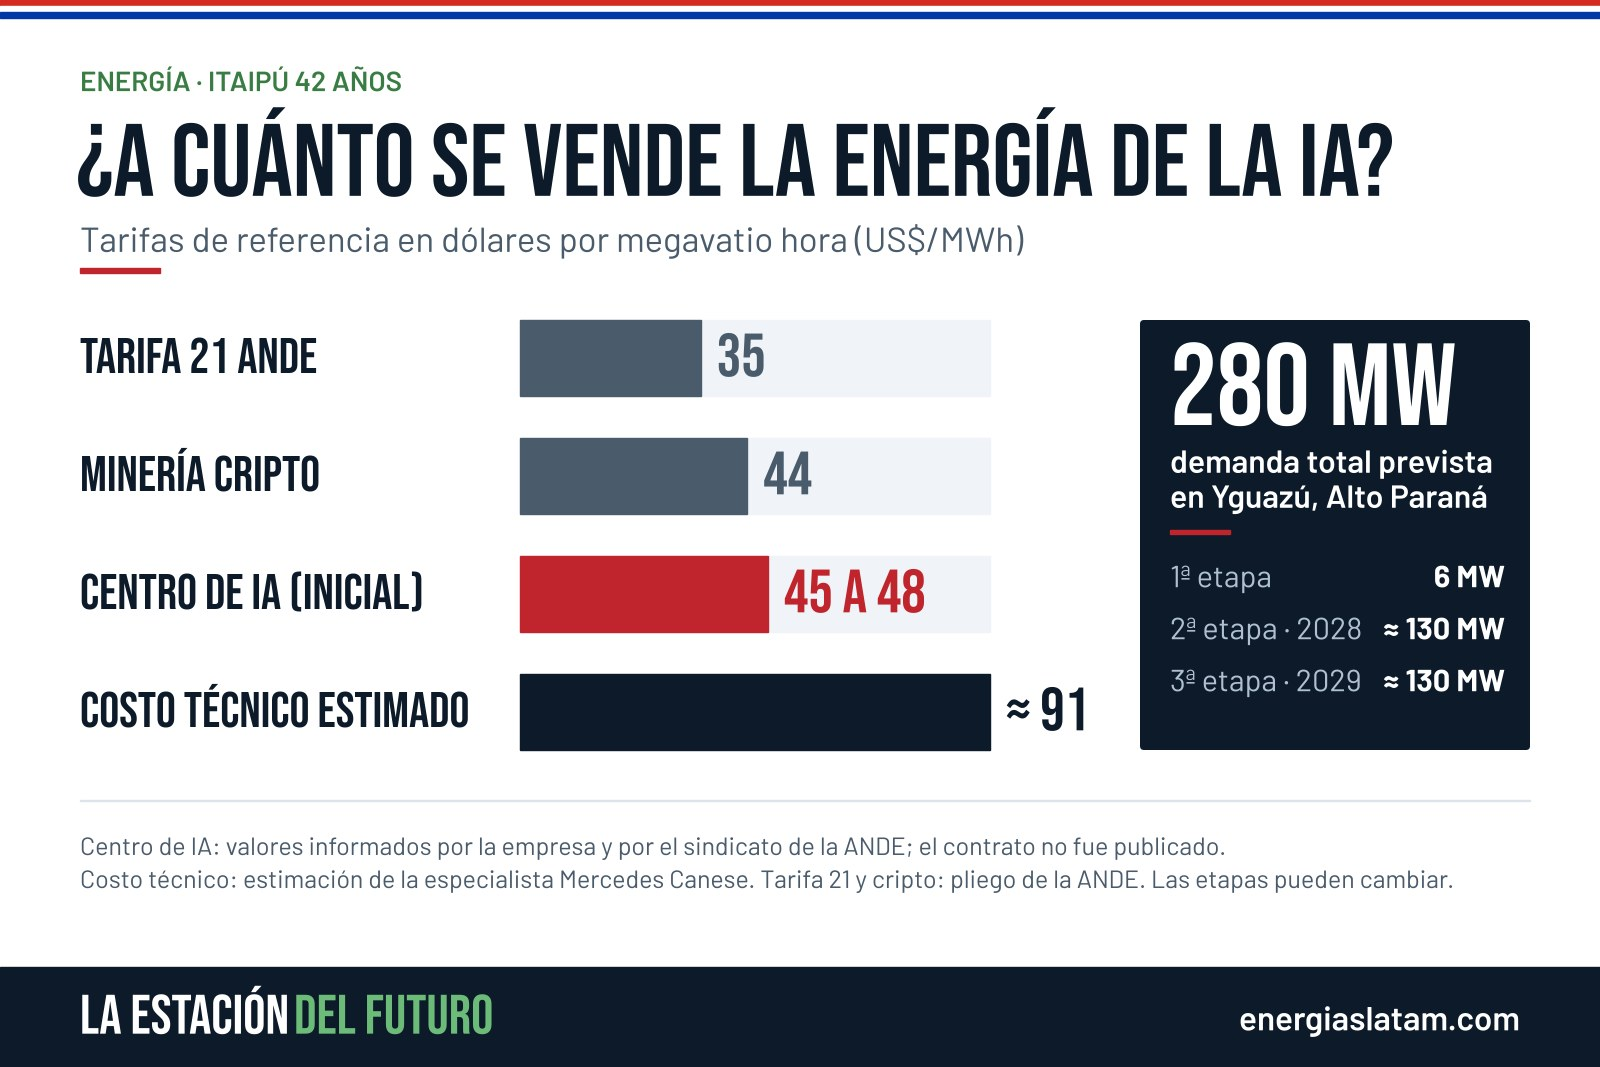
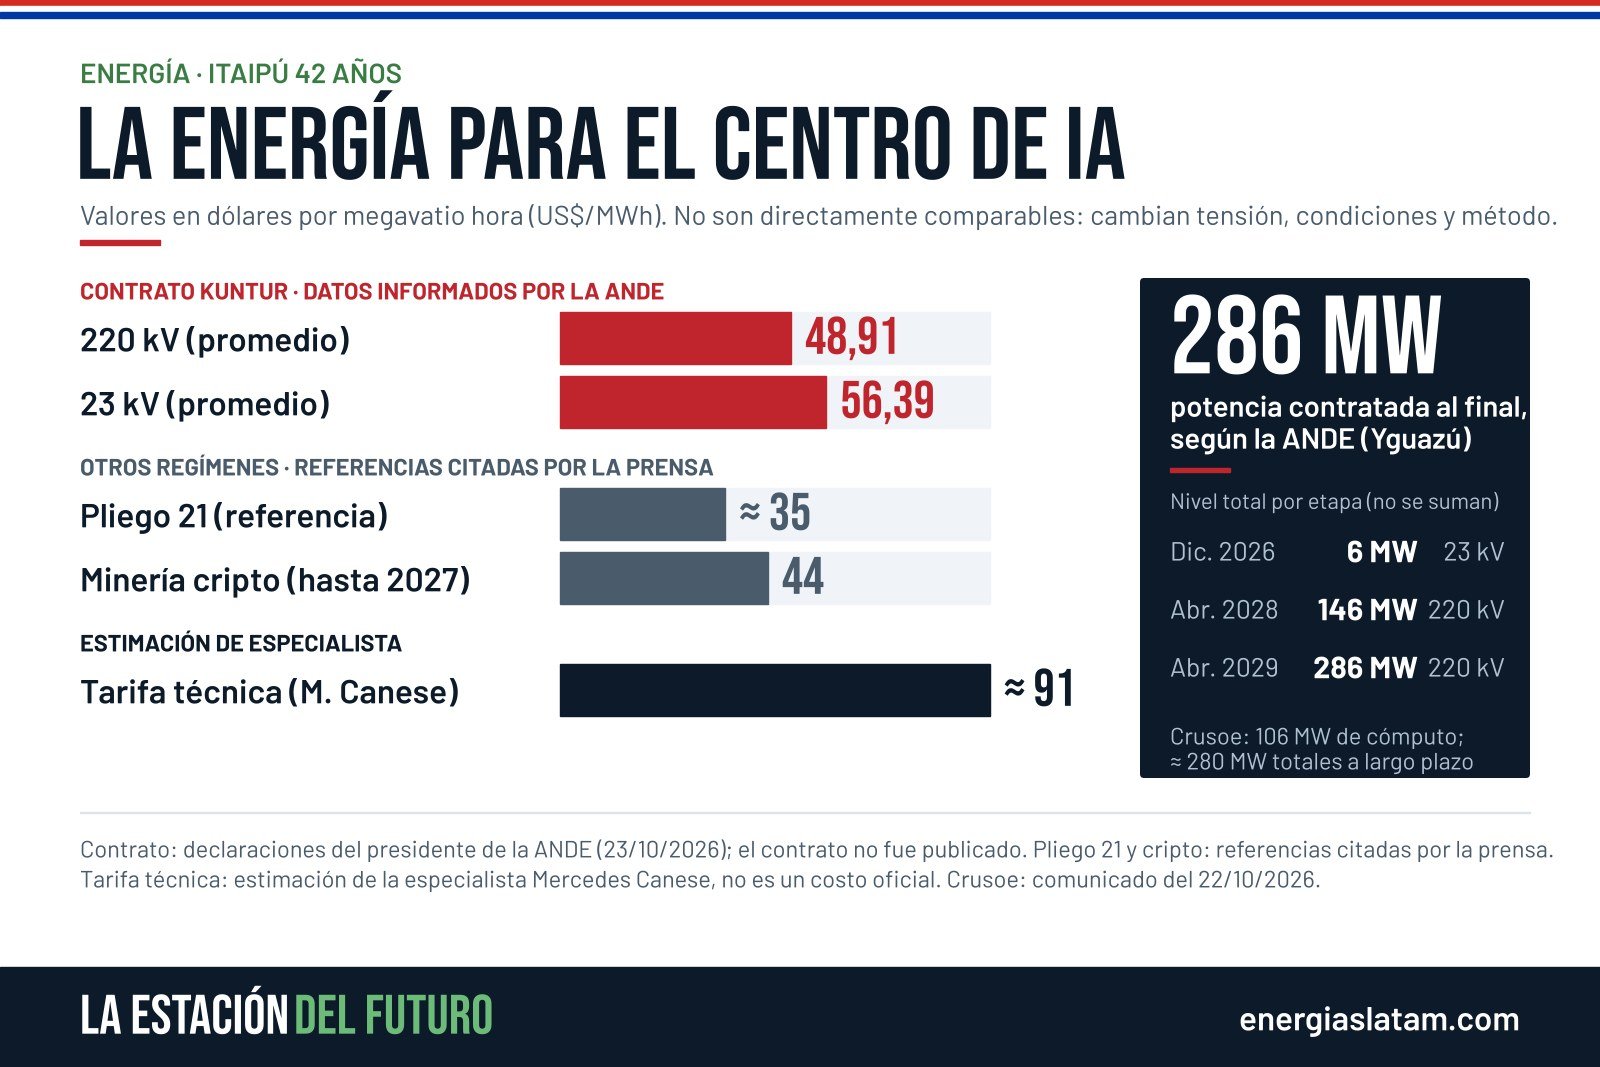
Nota 26/10 Itaipú: datos de la ANDE, etapas y gráfico corregidos
Claude-Session: https://claude.ai/code/session_01HHGRFrapr8AXyd2C4Baz1m

Changed region(s): [[0.0312, 0.0619, 0.9688, 0.7113], [0.0312, 0.6804, 0.9688, 0.8351], [0.6875, 0.2474, 0.9688, 0.6495]]

diff --git a/notas/2026-10-26-itaipu-42-centro-ia.html b/notas/2026-10-26-itaipu-42-centro-ia.html
@@ -1,12 +1,14 @@
-<figure><img src="img/2026-10-26-itaipu-42-centro-ia-1.jpg" alt="Tarifas eléctricas de referencia en US$/MWh y etapas del centro de inteligencia artificial en Yguazú"><figcaption>La tarifa inicial del centro de IA, frente a otras referencias del sistema eléctrico.</figcaption></figure>
-<p>Itaipú cumplió 42 años de su inauguración oficial con un debate que pasó de la diplomacia al precio. El disparador es un centro de datos de inteligencia artificial proyectado en Yguazú, Alto Paraná, que se abastecería con energía de la binacional a través de la ANDE. Llega a pocos meses de que venza el plazo para revisar el Anexo C del Tratado, la parte que fija las bases financieras de la represa.</p>
-<h2>Un cliente de 280 megavatios</h2>
-<p>El proyecto lo impulsa la empresa paraguaya Araico, con la estadounidense Crusoe como socia tecnológica. Según lo informado por la empresa, la demanda total llegaría a 280 MW en tres etapas: una primera de 6 MW, otra de unos 130 MW en 2028 y una tercera de tamaño similar en 2029. La inversión anunciada es de US$ 12.000 millones en tres años, con unos US$ 300 millones para la primera fase. Sobre el arranque hay dos versiones: la empresa habla de diciembre de 2026 y el texto oficial de Estados Unidos ubica la primera fase a mediados de 2027.</p>
-<p>La energía no se compra directo a Itaipú. Por el Tratado, solo la ANDE y su par brasileña pueden contratarla, así que el circuito es Itaipú, ANDE y después el cliente, conectado en 220 kV desde la subestación de Yguazú.</p>
-<h2>La discusión es la tarifa</h2>
-<p>La ANDE todavía no publicó el contrato. Los valores que circulan salen de la empresa y del sindicato de la eléctrica: un precio inicial de entre US$ 45 y 48 por megavatio hora, con un ajuste anual del 2,5 % y un plazo de 15 años [A VERIFICAR]. Como referencia, la tarifa 21 de la ANDE ronda los US$ 35 y la de la minería de criptomonedas, US$ 44, vigente hasta diciembre de 2027.</p>
-<p>Del otro lado, la especialista Mercedes Canese estima que el costo técnico de esa energía está cerca de US$ 91 por megavatio hora y sostiene que venderla a la mitad resigna recursos para infraestructura e industrialización. Quienes defienden el acuerdo destacan que trae inversión y empleo y que la energía excedente, si no se usa en el país, se cede a Brasil a valores bajos. El sindicato de la ANDE pidió transparencia y anunció movilizaciones.</p>
-<div class="datos"><div><b>14.000 MW</b><span>potencia instalada de Itaipú, en 20 unidades de 700 MW</span></div><div><b>21.619 GWh</b><span>energía que Itaipú entregó a la ANDE entre enero y septiembre de 2026</span></div><div><b>280 MW</b><span>demanda prevista del centro de IA de Yguazú en su etapa final</span></div></div>
+<figure><img src="img/2026-10-26-itaipu-42-centro-ia-1.jpg" alt="Tarifas informadas por la ANDE para el centro de IA, otras referencias y etapas de potencia en Yguazú"><figcaption>Lo informado por la ANDE, otras referencias de tarifa y la estimación de una especialista, separados porque no son directamente comparables.</figcaption></figure>
+<p>Itaipú cumplió 42 años de su inauguración oficial, el 25 de octubre de 1984, con un debate que se instaló en los últimos días: a qué precio vender la energía de la represa a un centro de datos de inteligencia artificial. En los primeros nueve meses de 2026, la binacional entregó 21.619 GWh a la ANDE, y una parte de esa energía tendrá un nuevo tipo de cliente.</p>
+<h2>Lo que informó la ANDE</h2>
+<p>Según declaraciones de su presidente, Miguel Báez, publicadas el 23 de octubre, la ANDE firmó el día anterior un contrato por 15 años con Kuntur, una empresa vinculada a la desarrolladora paraguaya Araico, para abastecer un centro de datos en Yguazú, Alto Paraná. El contrato fue firmado, pero no fue publicado: los datos que siguen provienen de esas declaraciones y no de una lectura del documento.</p>
+<p>Báez informó un precio promedio de US$ 48,91 por megavatio hora en 220 kV, dentro de un nuevo grupo de consumo para industrias electrointensivas de tecnología avanzada, y de US$ 56,39 en 23 kV. El reajuste anual sigue la inflación de Estados Unidos, con un piso del 2,5 %, y cada dos años se revisa según el costo de generación. La conexión será desde la subestación de Yguazú y, según la ANDE, Kuntur pagará las obras necesarias, que luego pasarán a ser activo de la estatal.</p>
+<h2>Etapas: energía y cómputo no son lo mismo</h2>
+<p>La ANDE describió tres niveles de potencia contratada, que no se suman entre sí: 6 MW desde diciembre de 2026 en 23 kV, 146 MW desde abril de 2028 y 286 MW desde abril de 2029, ya en 220 kV. Por su parte, el comunicado de Crusoe, la socia tecnológica estadounidense, del 22 de octubre, prevé un despliegue inicial a mediados de 2027, escalable a 106 MW de capacidad informática y con opciones de llegar a unos 280 MW totales a largo plazo.</p>
+<p>Las fechas no son necesariamente contradictorias: el inicio del suministro eléctrico y la puesta en servicio de los equipos de cómputo pueden ser hitos distintos. La correspondencia exacta entre ambos cronogramas todavía no fue explicada por las partes. Sobre el monto, directivos de Araico mencionaron una inversión de hasta US$ 12.000 millones en tres años, según lo publicado por ABC el 23 de octubre; es una cifra anunciada, no ejecutada.</p>
+<h2>El debate por el precio</h2>
+<p>La especialista Mercedes Canese estima que la tarifa técnica de esa energía ronda los US$ 91 por megavatio hora y sostiene que venderla por debajo resigna recursos para el desarrollo. Es una estimación propia, no un costo oficial. Báez, en cambio, defendió que el acuerdo es beneficioso para la ANDE, y el secretario general del sindicato de la empresa, Adolfo Villalba, dijo que la tarifa cumple con la ley. Como referencia, la prensa citó valores cercanos a US$ 35 para el Pliego 21 y de US$ 44 para la minería de criptomonedas, regímenes con condiciones distintas.</p>
+<div class="datos"><div><b>42 años</b><span>desde la inauguración oficial de Itaipú, el 25 de octubre de 1984</span></div><div><b>21.619 GWh</b><span>energía que Itaipú entregó a la ANDE entre enero y septiembre de 2026</span></div><div><b>286 MW</b><span>potencia contratada para la etapa final, según la ANDE</span></div></div>
 <h2>Qué significa para la estación de servicio</h2>
-<p>Para una red de estaciones, la electricidad es cada vez menos un gasto fijo y cada vez más parte del negocio: tiendas con frío las 24 horas, lavaderos y, sobre todo, cargadores para vehículos eléctricos. Cómo se fije la tarifa para grandes consumidores marca un precedente: si la ANDE ofrece precios especiales a clientes intensivos, la pregunta es si habrá esquemas pensados para la carga rápida, que también demanda mucha potencia en pocos puntos.</p>
-<p>El segundo punto es la red. Un consumo de 280 MW en Alto Paraná exige ampliar subestaciones y líneas en una zona clave para el tránsito de cargas y el corredor hacia Ciudad del Este. Conviene seguir qué obras de transmisión se anuncian y si mejoran la capacidad disponible para el resto de los usuarios, o si la absorbe el nuevo cliente.</p>
+<p>Para una red de estaciones, la electricidad es cada vez más parte del negocio: tiendas con frío las 24 horas, lavaderos y, sobre todo, cargadores para vehículos eléctricos. La creación de un grupo tarifario para grandes consumidores tecnológicos abre una pregunta para el sector: si habrá esquemas pensados para la carga rápida, que también concentra mucha potencia en pocos puntos.</p>
+<p>El segundo punto es la red. Una demanda de hasta 286 MW en Alto Paraná obliga a evaluar qué capacidad hay disponible en la zona y qué obras de transmisión serán necesarias. Para quienes planean cargadores sobre ese corredor, conviene seguir qué informa la ANDE sobre esas obras y cómo afectan la potencia disponible para el resto de los usuarios.</p>
